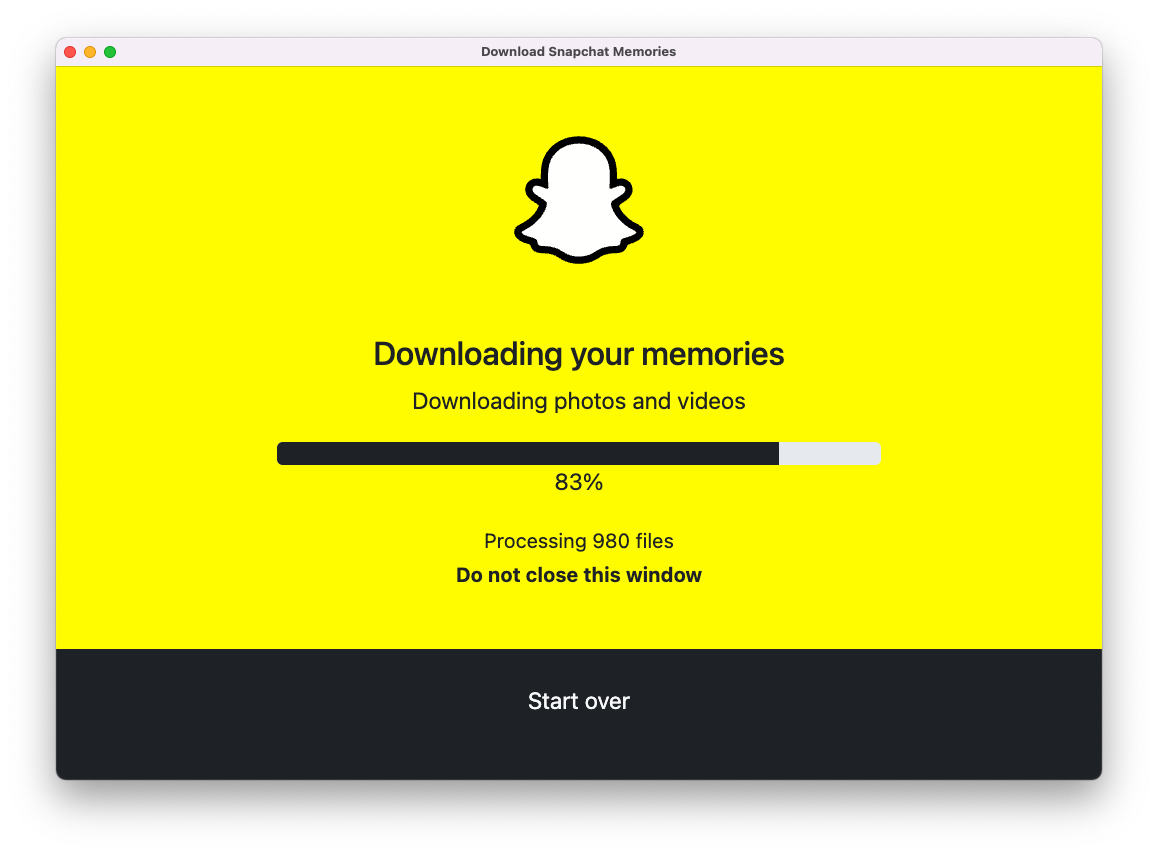
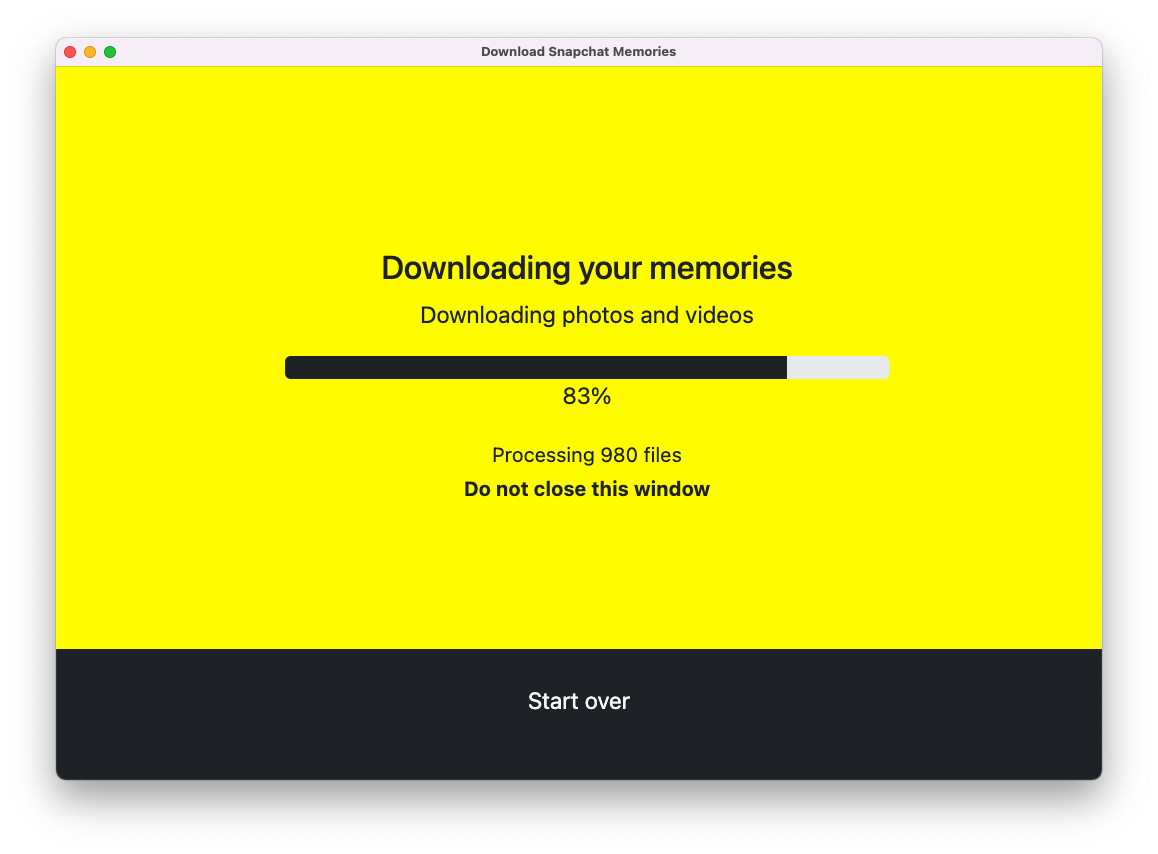
DMCA compliance (#77)
* Replace `ghostlogo.svg` with icon

* Add "not affiliated with snap" disclaimer

* Remove ghostlogo from assets/ images

* Bump version to 1.5.6

diff --git a/docs/index.html b/docs/index.html
@@ -36,7 +36,7 @@
   <body class="bg-dark">
     <div class="bg-snap-yellow container-fluid m-0 p-0">
       <div class="container-md text-center p-5">
-        <img src="ghostlogo.svg" width="80" height="80" />
+        <img src="icon.ico" width="80" height="80" />
         <h1><strong>Memory Download</strong></h1>
         <h4>Download all of your Snapchat memories with ease</h4>
       </div>
@@ -107,6 +107,10 @@
                 class="text-center text-secondary invisible"
               ></p>
             </div>
+
+            <small>
+              <strong>Note</strong> This tool is not affiliated with Snap Inc.
+            </small>
           </div>
         </div>
       </div>

diff --git a/src/public/index.html b/src/public/index.html
@@ -16,7 +16,7 @@
   <body class="bg-dark" onload="document.getElementById('form').reset();">
     <div class="bg-snap-yellow container-fluid m-0 p-0">
       <div class="container-md text-center p-5">
-        <img src="ghostlogo.svg" width="60" height="60" />
+        <img src="icon.ico" width="60" height="60" />
         <h1><strong>Memory Download</strong></h1>
         <h4>Download all of your Snapchat memories with ease</h4>
       </div>

diff --git a/docs/404.html b/docs/404.html
@@ -26,7 +26,7 @@
   <body class="bg-dark">
     <div class="bg-snap-yellow container-fluid m-0 p-0">
       <div class="container-md text-center p-5">
-        <img src="/ghostlogo.svg" width="80" height="80" />
+        <img src="/icon.ico" width="80" height="80" />
         <h1><strong>Memory Download</strong></h1>
         <h4>Download all of your Snapchat memories with ease</h4>
       </div>

diff --git a/docs/contributors.html b/docs/contributors.html
@@ -22,7 +22,7 @@
   <body class="bg-dark">
     <div class="bg-snap-yellow container-fluid m-0 p-0">
       <div class="container-sm text-center p-5">
-        <img src="/ghostlogo.svg" width="80" height="80" />
+        <img src="/icon.ico" width="80" height="80" />
         <h1><strong>Memory Download</strong></h1>
         <h4>Download all of your Snapchat memories with ease</h4>
       </div>

diff --git a/docs/support.html b/docs/support.html
@@ -22,7 +22,7 @@
   <body class="bg-dark">
     <div class="bg-snap-yellow container-fluid m-0 p-0">
       <div class="container-sm text-center p-5">
-        <img src="/ghostlogo.svg" width="80" height="80" />
+        <img src="/icon.ico" width="80" height="80" />
         <h1><strong>Memory Download</strong></h1>
         <h4>Download all of your Snapchat memories with ease</h4>
       </div>
